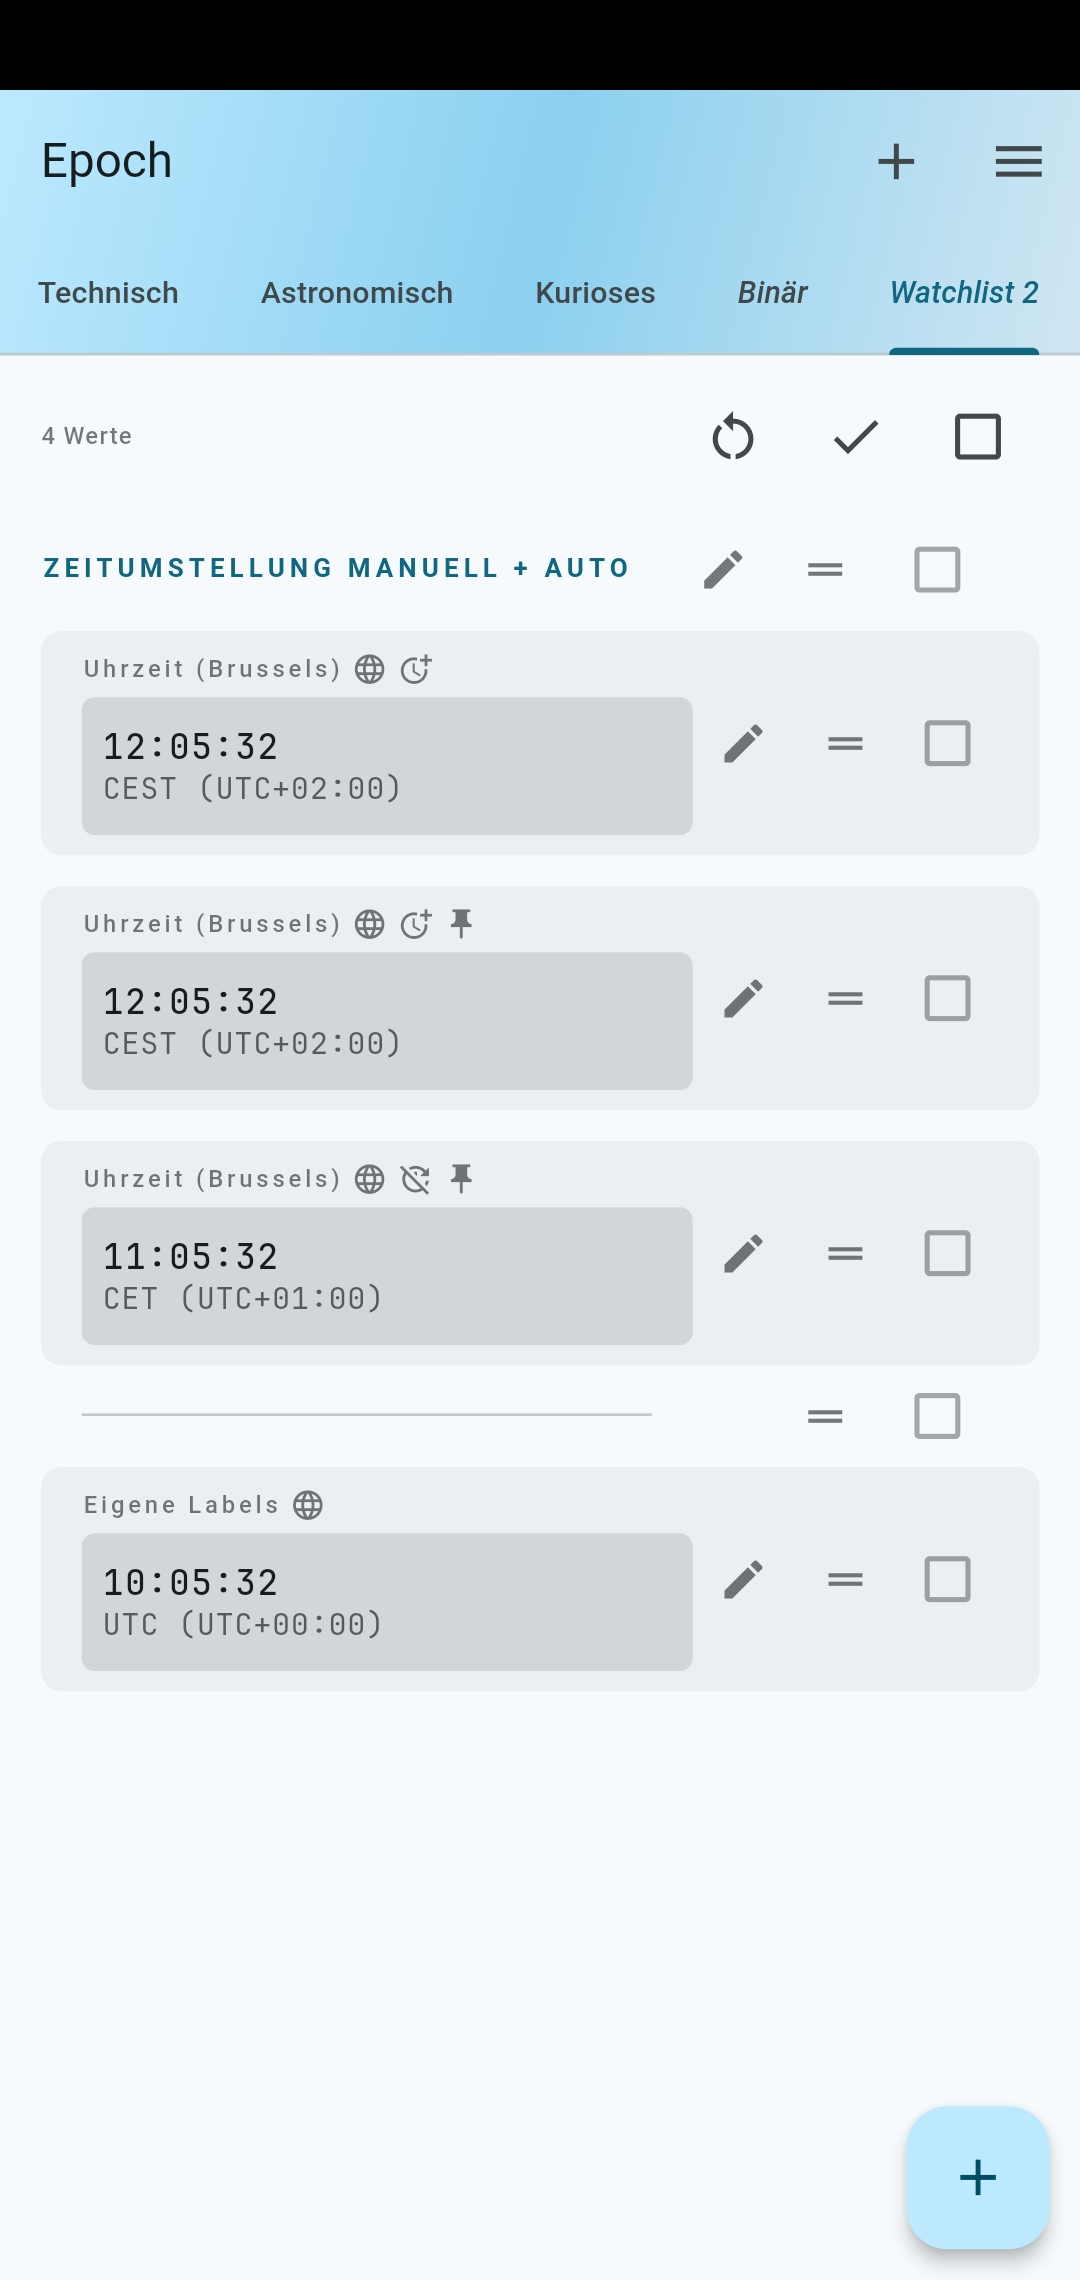
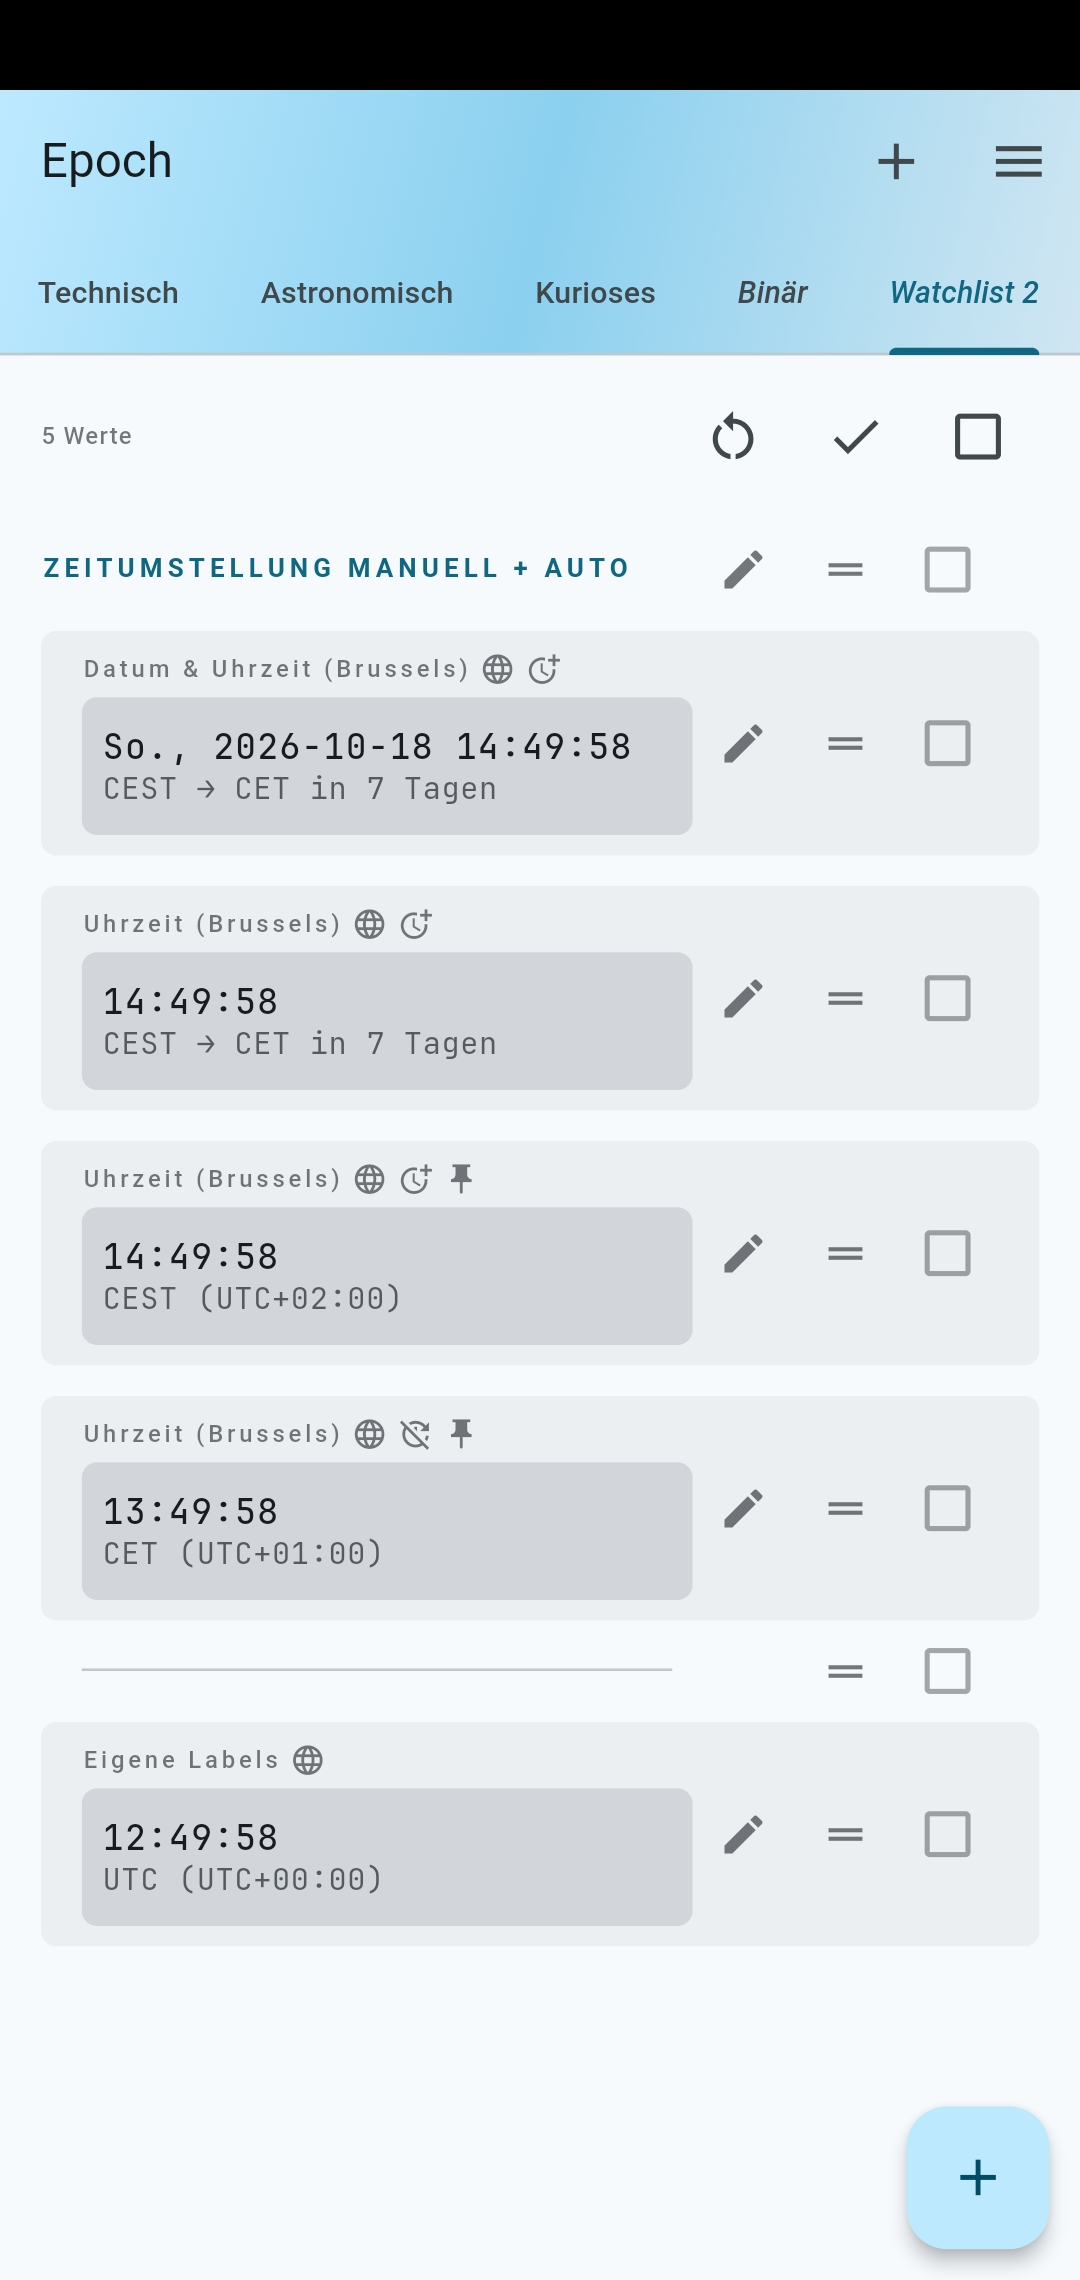
Release 1.3.0

diff --git a/README.md b/README.md
@@ -34,6 +34,7 @@ also happen to spell out **E**legant **p**resentation **o**f
 - Civil tab configurable with any timezone worldwide
 - Flexible timezone search (city, country, timezone name or abbreviation, UTC offset)
 - Optionally force standard or summer time for zoned time values all year round
+- 7-day advance clock change notice
 - Drag-and-drop reordering, swipe to remove
 - Custom labels for individual values
 - Custom section headers and dividers
@@ -43,9 +44,11 @@ also happen to spell out **E**legant **p**resentation **o**f
 - Night mode with red-on-black display — preserves dark adaptation for stargazing
 - Light, dark, and system themes
 - Full-screen toggle (double-tap on the app's name in the top-left corner)
+- Focus mode: double-tap any value for a full-screen, always-on display with adjustable brightness (Android) and color
 - 12 / 24-hour format toggle
 - Thousands separator toggle
 - Expanded date toggle
+- Timezone details (abbreviation and UTC offset) configurable
 - Export, import, and reset all preferences (cross-platform, with automatic backup on reset)
 - Available in English and German
 - Android widgets coming soon
@@ -61,14 +64,14 @@ also happen to spell out **E**legant **p**resentation **o**f
 ## What makes Epoch different?
 
 Most clock apps show you one or two time formats.
-Epoch shows you 18 different time values simultaneously, lets you pick exactly
+Epoch shows you 19 different time values simultaneously, lets you pick exactly
 which ones you care about, and explains what each one means.
 
 **Epoch is for you if you...**
 - are curious about different time systems in use around the world
-- want to compare local times across many timezones at a glance
+- want to compare local times across many timezones at a glance (e. g. friends/colleagues abroad)
 - enjoy unusual time representations like Swatch Internet Time, day seconds, or binary clocks
-- do amateur astronomy and want a single app for sidereal time, Julian Date, and LMST —
+- do amateur astronomy and want a single app for sidereal time, LMST, and Julian Date —
   without blue light ruining your dark adaptation
 - keep an eye on the Doomsday Clock
 - just want to know what Unix time it is right now
@@ -95,6 +98,11 @@ Android screenshots are in `fastlane/metadata/android/{en-US,de-DE}`.
   <img src="https://raw.githubusercontent.com/RealNoitasinagro/epoch/main/fastlane/metadata/android/en-US/images/phoneScreenshots/5.png" width="200" alt="en 5">
   <img src="https://raw.githubusercontent.com/RealNoitasinagro/epoch/main/fastlane/metadata/android/en-US/images/phoneScreenshots/6.png" width="200" alt="en 6">
 </p>
+<p>
+  <img src="https://raw.githubusercontent.com/RealNoitasinagro/epoch/main/fastlane/metadata/android/en-US/images/phoneScreenshots/7.png" width="260" alt="en 7">
+  <img src="https://raw.githubusercontent.com/RealNoitasinagro/epoch/main/fastlane/metadata/android/en-US/images/phoneScreenshots/8.png" width="260" alt="en 8">
+  <img src="https://raw.githubusercontent.com/RealNoitasinagro/epoch/main/fastlane/metadata/android/en-US/images/phoneScreenshots/9.png" width="260" alt="en 9">
+</p>
 
 </details>
 
@@ -110,6 +118,11 @@ Android screenshots are in `fastlane/metadata/android/{en-US,de-DE}`.
   <img src="https://raw.githubusercontent.com/RealNoitasinagro/epoch/main/fastlane/metadata/android/de-DE/images/phoneScreenshots/4.png" width="200" alt="de 4">
   <img src="https://raw.githubusercontent.com/RealNoitasinagro/epoch/main/fastlane/metadata/android/de-DE/images/phoneScreenshots/5.png" width="200" alt="de 5">
   <img src="https://raw.githubusercontent.com/RealNoitasinagro/epoch/main/fastlane/metadata/android/de-DE/images/phoneScreenshots/6.png" width="200" alt="de 6">
+</p>
+<p>
+  <img src="https://raw.githubusercontent.com/RealNoitasinagro/epoch/main/fastlane/metadata/android/de-DE/images/phoneScreenshots/7.png" width="260" alt="de 7">
+  <img src="https://raw.githubusercontent.com/RealNoitasinagro/epoch/main/fastlane/metadata/android/de-DE/images/phoneScreenshots/8.png" width="260" alt="de 8">
+  <img src="https://raw.githubusercontent.com/RealNoitasinagro/epoch/main/fastlane/metadata/android/de-DE/images/phoneScreenshots/9.png" width="260" alt="de 9">
 </p>
 
 </details>

diff --git a/CHANGELOG.md b/CHANGELOG.md
@@ -2,14 +2,18 @@
 
 ## [Unreleased]
 
+---
+
+## [1.3.0] - 2026-07-20
+
 ### Added
-- 🆒 1-value always-on focus screen with font color choice (and brightness adjust for Android)
+- 🆒 1-value always-on focus screen with text color selection (and brightness adjust for Android)
 - new value type seven-segment clock
-- 1-week clock change heads-up
+- 7-day advance notice of DST transitions
 - global configuration option for the UTC-offset line of a zoned time value
 
 ### Changed
-- much improved timezone keyword search
+- much improved timezone keyword search, esp. coverage (e. g. support for megacities)
 - day second and day percent with UTC-offset line for consistency
 
 ### Fixed
@@ -17,9 +21,7 @@
 - slider buttons in Settings not always showing correct state immediately after reset
 - slight button misalignment (visible on Android only) for dividers and section headers
 
-
 ---
-
 
 ## [1.2.0] - 2026-07-01
 
@@ -38,12 +40,14 @@
 ### Fixed
 - missing timezones UTC-12, UTC+8:45, UTC+12:45, UTC+13:45, UTC+14
 
+---
 
 ## [1.1.1] - 2026-06-11
 
 ### Removed
 - geolocator -- longitude config for LMST only manual for now
 
+---
 
 ## [1.1.0] - 2026-06-10
 
@@ -65,5 +69,6 @@
 - value tile reordering (tile dragged to the end of the list jumped back to last but one position)
 - crashes for outdated timezone names
 
+---
 
 ## [1.0.0] - 2026-05-21
